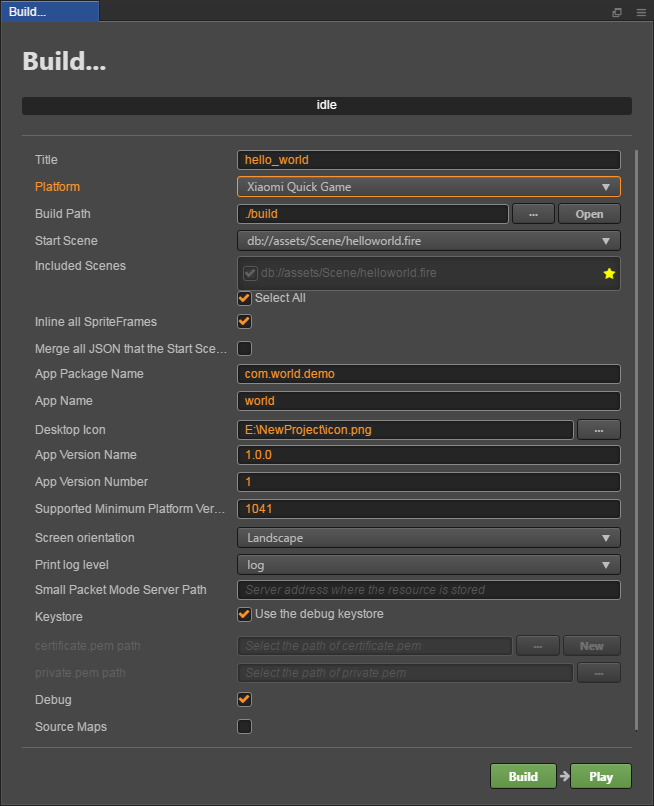
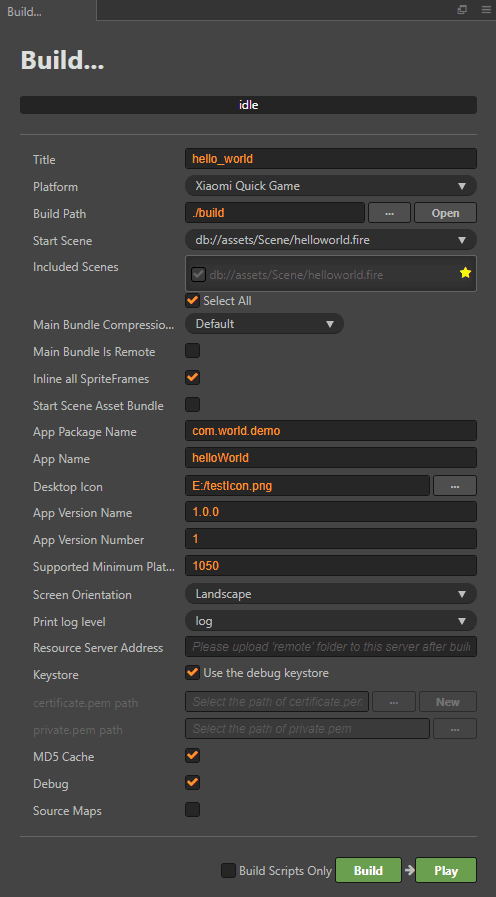
update xiaomi cdn workflow
update image

fix link jump

correct remote

diff --git a/en/publish/publish-xiaomi-quick-games.md b/en/publish/publish-xiaomi-quick-games.md
@@ -47,15 +47,13 @@ The specific filling rules for the relevant parameter configuration are as follo
 
   This item is required. According to the requirements of Xiaomi Quick Games, this value must be greater than or equal to **1050** at present.
 
-- **Small Packet Mode**
+- **Resource Server Address**
 
-  This item is optional. The in-package volume of the quick game contains code and resources that cannot exceed 10M, and resources can be loaded via network requests. **Small Packet Mode** is to help users keep the script files in the quick game package, other resources are uploaded to the remote server, and downloaded from the remote server as needed. And the download, cache and version management of remote resources, Cocos Creator has already done that for developers. What the developer needs to do are the following steps:
+  This entry fills in the address at which the resource is stored on the server and is optional:
+  - If this entry is not filled, the **remote** folder in the build directory will be packaged in the rpk package.
+  - If this entry is filled in, the constructed rpk package will not include the **remote** folder and you will need to manually upload the **remote** folder to the filled in resource server address.
 
-  1. When building, check the **Small Packet Mode** and fill in the **Small Packet Mode Server Path**, then click **Build**.
-
-  2. After the build is complete, click the **Open** button after the **Build Path** to upload the **xiaomi/res** directory under the release path to the small packet mode server. For example, if the default publishing path is `build`, you need to upload the **build/xiaomi/res** directory.
-
-  At this point, the **res** folder will no longer be included in the `.rpk` file which is generated after the build, and the resources in the **res** folder will be downloaded from the filled **Small Packet Mode Server Path** through the network request.
+  For specific resource management details, see [Resource Management for Xiaomi Quick Game Environment](#Resource-Management-for-Xiaomi-Quick-Game-Environment).
 
 - **Keystore**
 

diff --git a/zh/publish/publish-xiaomi-quick-games.md b/zh/publish/publish-xiaomi-quick-games.md
@@ -47,15 +47,13 @@
 
   该项为必填项。根据小米快游戏的要求目前这个值必须大于或等于 **1050**。
 
-- **小包模式服务器路径**
+- **资源服务器地址**
 
-  该项为选填项。快游戏的包内体积包含代码和资源不能超过 10M，资源可以通过网络请求加载。**小包模式** 就是帮助用户将脚本文件保留在快游戏包内，其他资源则上传到远程服务器，根据需要从远程服务器下载。而远程资源的下载、缓存和版本管理，Creator 已经帮用户做好了。用户需要做的是以下两个步骤：
+  该项填写资源存放在服务器上的地址，为选填项：
+  - 如果不填该选项，构建目录下的 **remote** 文件夹将被打包在 rpk 包内。
+  - 如果填写该选项，构建出来的 rpk 包将不包括 **remote** 文件夹，你需要将 **remote** 文件夹手动上传到所填写的资源服务器地址上。
 
-  1、构建之前，填写 **小包模式服务器路径**。然后点击 **构建**。
-
-  2、构建完成后，点击 **发布路径** 后面的 **打开** 按钮，将发布路径下的 **xiaomi/res** 目录上传到小包模式服务器。例如：默认发布路径是 build，则需要上传 build/xiaomi/res 目录。
-
-  此时，构建出来的 rpk 将不再包含 res 目录，res 目录里的资源将通过网络请求从填写的 **小包模式服务器地址** 上下载。
+  具体的资源管理细节，请参考 [小米快游戏环境的资源管理](#小米快游戏环境的资源管理)。
 
 - **密钥库**
 
